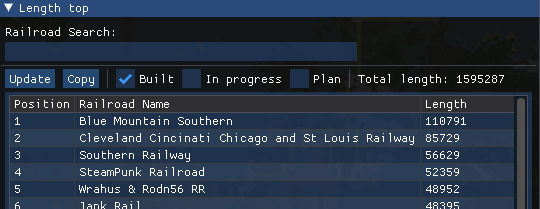
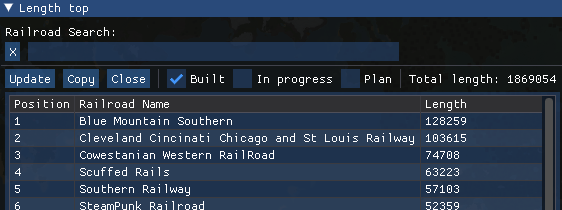
Readme adjustments.

diff --git a/Sources/Modules/Interface.cpp b/Sources/Modules/Interface.cpp
@@ -1151,6 +1151,12 @@ void Interface::show_length_top()
     ImGui::Begin("Length top");
 
     ImGui::Text("Railroad Search: ");
+
+    if (ImGui::Button("X##clear_length_top_search"))
+        fields.search_name.clear();
+
+    ImGui::SameLine();
+
     ImGui::InputText("##length_top_railroad_search", &fields.search_name);
 
     ImGui::Separator();

diff --git a/README.md b/README.md
@@ -1,7 +1,7 @@
 # RailwayCraft Map, version 2
 This is a database program for RWC.
 
-**Important!** To get a database you need to be a RWC Discord member (contact me: nikikust)!
+**Important!** To get a database you need to be a RWC Discord member (DM me: @nikikust)!
 To succesfully run a program you need "data.rr" file and Maps folder.
 
 ---
@@ -139,7 +139,7 @@ P                 | Make a screenshot																		                   |
 F1-6,10           | Open menus																				                   |
 Ctrl+S            | Save data																				                   |
 LMB               | Move camera (when on free space).<br/>Move point (when hovered)<br/>Select railroad (when line is clicked) |
-RMB               | Move camera (when in 'Line Edit' mode													                   |
+RMB               | Move camera (when in 'Line Edit' mode)													                   |
 
 ---
 
@@ -163,6 +163,7 @@ vcpkg integrate install
 vcpkg install sfml:x64-windows
 vcpkg install imgui-sfml:x64-windows
 vcpkg install imgui[docking-experimental]:x64-windows
+vcpkg install nlohmann-json
 ```
 - Open .sln project with VS and build.
 
